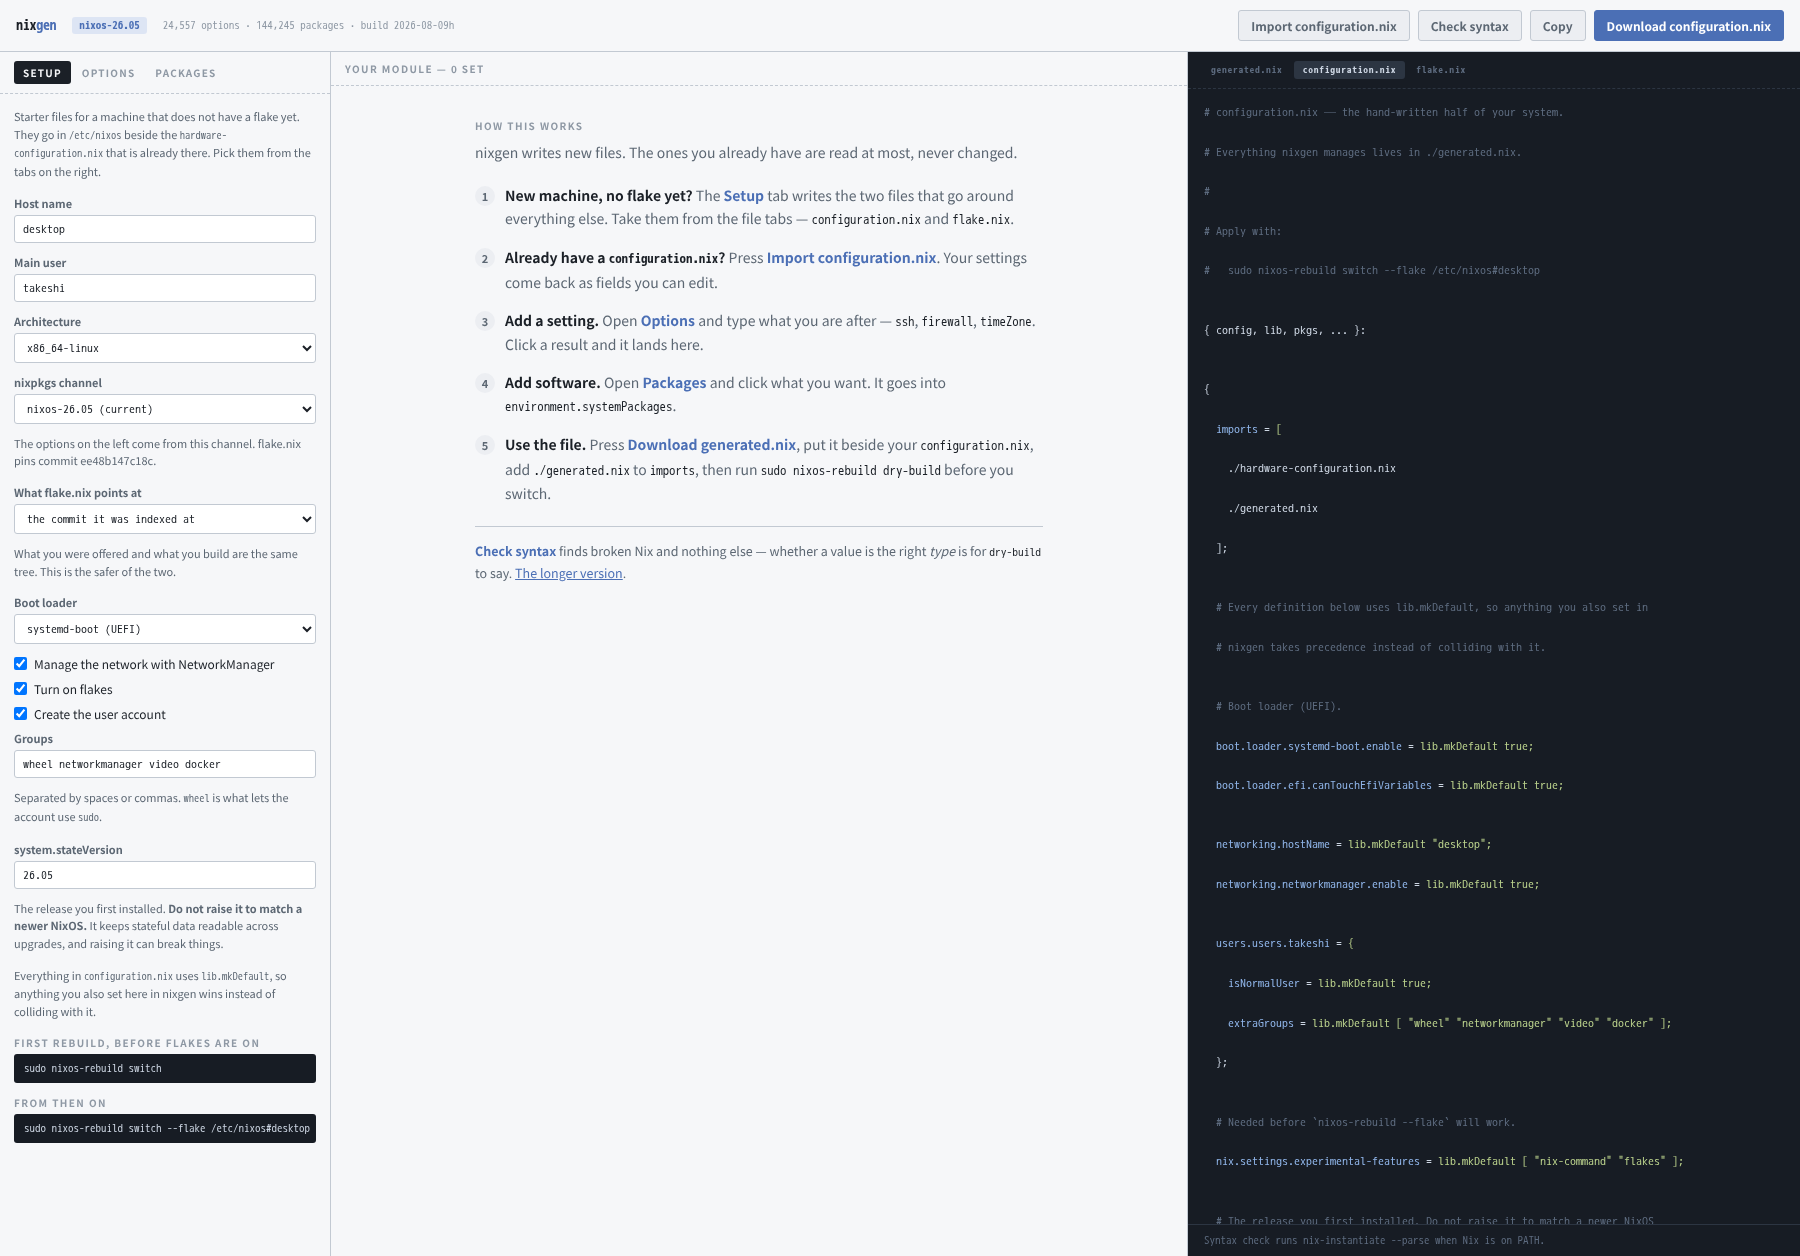
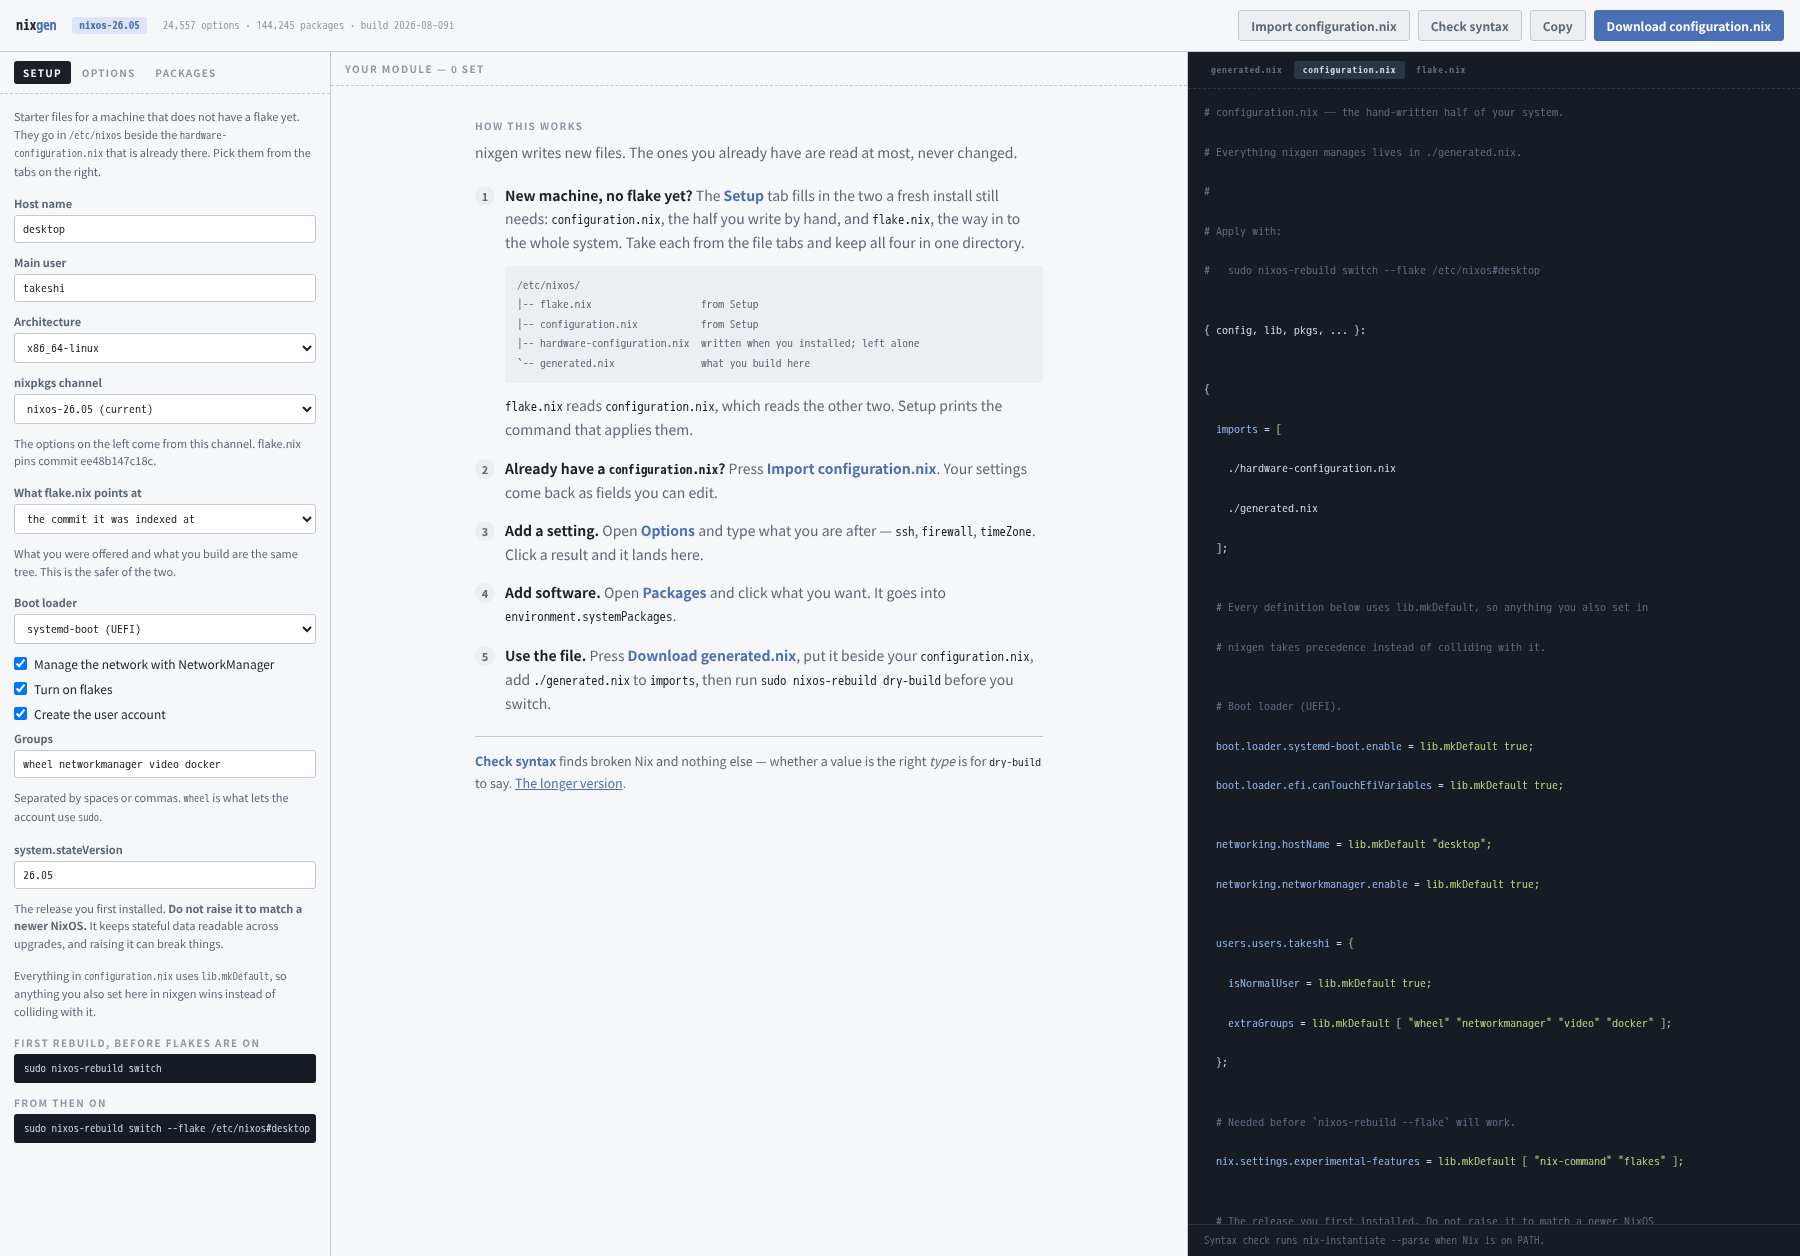
Show where the starter files go, in the panel that explains it
"New machine, no flake yet?" was one sentence pointing at a tab. It now says
what each of the two files Setup fills in is for, lists the four that end up
side by side in /etc/nixos, and says which reads which — the part prose kept
failing to carry, and the reason the same listing went into both READMEs
earlier today.

ASCII rather than box drawing: --mono falls back to a proportional face for
those glyphs on some machines, and a tree whose columns do not line up is
worse than no tree. Confirmed by rendering it both ways.

Two layout bugs fell out of it, both latent until something wide existed:

  * the single-column rule used `1fr`, so the track grew to fit its content
    and pushed the whole page sideways on a phone. The desktop middle column
    has always used minmax(0, 1fr) for exactly this.
  * `#howto` had auto margins without a width, which turns off the stretch
    and sizes the block to its widest line, so the listing never got a
    reason to scroll inside its own box.

Measured at 420px afterwards: the document no longer scrolls sideways and
the listing scrolls where it should.

Changed region(s): [[0.2489, 0.1553, 0.56, 0.6521], [0.4978, 0.59, 0.5289, 0.621], [0.3733, 0.59, 0.4044, 0.621]]

diff --git a/build/static/app.css b/build/static/app.css
@@ -138,7 +138,13 @@ main {
 
 /* The steps, shown while the module is empty. Measured rather than filling
    the pane: at 1100px a line of prose is unreadable. */
-#howto { padding: 32px 26px 34px; max-width: 620px; margin: 0 auto; color: var(--ink-soft); }
+/* `width: 100%` alongside the auto margins: without it the auto margins turn
+   off the stretch, the block sizes to its widest line instead of the pane,
+   and the listing inside never gets a reason to scroll. */
+#howto {
+  width: 100%; max-width: 620px; margin: 0 auto;
+  padding: 32px 26px 34px; color: var(--ink-soft);
+}
 #howto .eyebrow { margin: 0 0 8px; }
 #howto .lede { margin: 0 0 20px; line-height: 1.65; }
 #howto ol { margin: 0; padding: 0; list-style: none; counter-reset: step; }
@@ -156,6 +162,14 @@ main {
 /* Words that are on the screen somewhere, so the eye can go and find them. */
 #howto b.w { color: var(--accent); }
 #howto code { font-family: var(--mono); font-size: .92em; color: var(--ink); }
+/* Where the files end up, which is the part prose kept failing to convey.
+   Scrolls inside itself rather than widening the column. */
+#howto .tree {
+  margin: 11px 0; padding: 10px 12px;
+  background: var(--panel-2); border-radius: var(--r);
+  font: 11.5px/1.7 var(--mono); color: var(--ink-soft);
+  white-space: pre; overflow-x: auto;
+}
 #howto .after {
   margin: 6px 0 0; padding-top: 14px; border-top: 1px solid var(--rule);
   font-size: 12.5px; line-height: 1.65;
@@ -252,7 +266,11 @@ pre.nix mark { background: rgba(75,111,181,.30); color: inherit;
 .mobilebar { display: none; }
 
 @media (max-width: 1080px) {
-  main { grid-template-columns: 1fr; grid-template-rows: 1fr; }
+  /* minmax(0, …) rather than 1fr, for the same reason the desktop middle
+     column uses it: a grid track will not go narrower than its content
+     otherwise, so one wide line pushes the whole page off the screen
+     sideways instead of scrolling where it belongs. */
+  main { grid-template-columns: minmax(0, 1fr); grid-template-rows: 1fr; }
   .pane { display: none; }
   .pane.active { display: flex; }
   .mobilebar { display: flex; gap: 2px; padding: 8px 12px; background: var(--panel);
@@ -288,7 +306,11 @@ pre.nix > span { display: block; padding-left: 3.2em; text-indent: -3.2em; }
    this release is the one thing nixos-rebuild will refuse outright, and under
    a screen of cards is where it went unread. */
 #pane-editor .pane-body { display: flex; flex-direction: column; }
-#pane-editor .pane-body > * { flex: 0 0 auto; }
+/* `min-width: 0` is load-bearing: a flex item refuses to go narrower than its
+   content by default, so one wide line inside — the directory listing in the
+   steps — widened the whole pane past the window on a narrow screen instead
+   of scrolling inside itself. */
+#pane-editor .pane-body > * { flex: 0 0 auto; min-width: 0; }
 #notice { padding: 0 14px; }
 #notice:not(:empty) {
   order: -1; padding: 12px 14px;

diff --git a/build/static/index.html b/build/static/index.html
@@ -137,9 +137,21 @@
                be wrong in the one place a first-timer cannot afford it. -->
           <ol>
             <li><b>New machine, no flake yet?</b> The <b class="w">Setup</b> tab
-              writes the two files that go around everything else. Take them
-              from the file tabs — <code>configuration.nix</code> and
-              <code>flake.nix</code>.</li>
+              fills in the two a fresh install still needs:
+              <code>configuration.nix</code>, the half you write by hand, and
+              <code>flake.nix</code>, the way in to the whole system. Take each
+              from the file tabs and keep all four in one directory.
+              <!-- ASCII rather than box drawing: the mono stack falls back to
+                   a proportional face for those glyphs on some machines, and a
+                   tree that does not line up is worse than no tree. -->
+              <pre class="tree">/etc/nixos/
+|-- flake.nix                   from Setup
+|-- configuration.nix           from Setup
+|-- hardware-configuration.nix  written when you installed; left alone
+`-- generated.nix               what you build here</pre>
+              <code>flake.nix</code> reads <code>configuration.nix</code>, which
+              reads the other two. Setup prints the command that applies
+              them.</li>
             <li><b>Already have a <code>configuration.nix</code>?</b> Press
               <b class="w">Import configuration.nix</b>. Your settings come back
               as fields you can edit.</li>

diff --git a/build/static/app.js b/build/static/app.js
@@ -2,7 +2,7 @@
 
 /* Shown in the header. Bump it whenever this file changes, so "the fix did not
    work" can be told apart from "the old file is still being served". */
-const BUILD = '2026-08-09h';
+const BUILD = '2026-08-09i';
 
 const $  = (s, r = document) => r.querySelector(s);
 const $$ = (s, r = document) => [...r.querySelectorAll(s)];
@@ -123,9 +123,9 @@ function setStateVersion(release, channel) {
     `${(+meta.option_count).toLocaleString()} options · ` +
     `${(+meta.package_count).toLocaleString()} packages · build ${BUILD}`;
   setStateVersion(meta.release, meta.channel);
-  // The file names and option paths in the steps are Nix, not prose, so they
-  // are guarded like every other identifier on the page.
-  $$('#howto code').forEach(keep);
+  // The file names, option paths and the directory listing in the steps are
+  // Nix, not prose, so they are guarded like every other identifier here.
+  $$('#howto code, #howto .tree').forEach(keep);
   renderEditor();
   await loadReleases();
   await loadStarter();

diff --git a/CHANGELOG.md b/CHANGELOG.md
@@ -9,6 +9,17 @@ option counts.
 
 ## English
 
+### build 2026-08-09i
+
+- **The first step now draws where the files go.** "Starter files for a new
+  machine" was one sentence; it is now the two files Setup fills in, what each
+  one is for, and a listing of the four that end up side by side in
+  `/etc/nixos`. Which reads them in what order is said too, since that is the
+  part prose kept failing to convey.
+- **Fixed: a wide line pushed the whole page sideways on a narrow screen.** The
+  single-column layout let a track grow to fit its content rather than scroll
+  inside it. Latent until something wide turned up, which the listing did.
+
 ### build 2026-08-09h
 
 - **Five steps now sit in the middle of the screen when you open it**, which
@@ -194,6 +205,11 @@ three of these six showed up in only one of the two.
 ---
 
 ## 日本語
+
+### build 2026-08-09i
+
+- **手順1に、ファイルの置き場所を図で示しました。** 「新規マシン用のスターターファイル」はこれまで1文だけでしたが、Setupタブが用意する2つのファイルがそれぞれ何なのか、そして `/etc/nixos` に最終的に並ぶ4つのファイルを一覧で示すようにしました。**どれがどれを読み込むのか**も書いてあります。文章だけでは伝わりにくかった部分です。
+- **修正：横幅の広い行があると、狭い画面でページ全体が横にはみ出す不具合。** 1カラム表示のとき、レイアウトが中身の幅に合わせて広がってしまい、枠の中でスクロールしませんでした。**広い行が無かったため、これまで表面化していませんでした。** 今回のファイル一覧で初めて出ました。
 
 ### build 2026-08-09h
 

diff --git a/CLAUDE.md b/CLAUDE.md
@@ -183,6 +183,15 @@ at `nixos-rebuild`, which is the least helpful place for it to surface.
   what clears them. They name the tabs and buttons rather than where things sit
   — the panes stack and swap on a narrow screen, and "on the left" would be
   wrong exactly where a first-timer cannot afford it.
+- **Every grid track and flex item that can hold wide content needs
+  `minmax(0, …)` or `min-width: 0`.** Both refuse to go narrower than their
+  contents by default, so one long line widens the page instead of scrolling
+  inside its own box. The desktop middle column always had it; the
+  single-column rule did not, and a four-line directory listing was enough to
+  push the whole page off a phone screen sideways.
+- **The directory listing in the steps is ASCII, not box drawing.** `--mono`
+  falls back to a proportional face for `├─└` on some machines, and a tree
+  whose columns do not line up is worse than no tree.
 - No browser storage. State lives in `state` in `app.js`.
 
 > 上記はいずれも「見た目は正しいのに後で壊れる」類の落とし穴です。触る前に一読してください。
